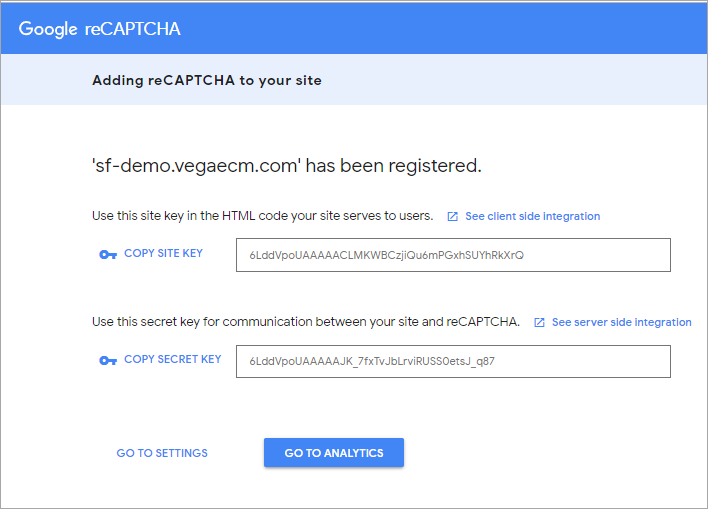
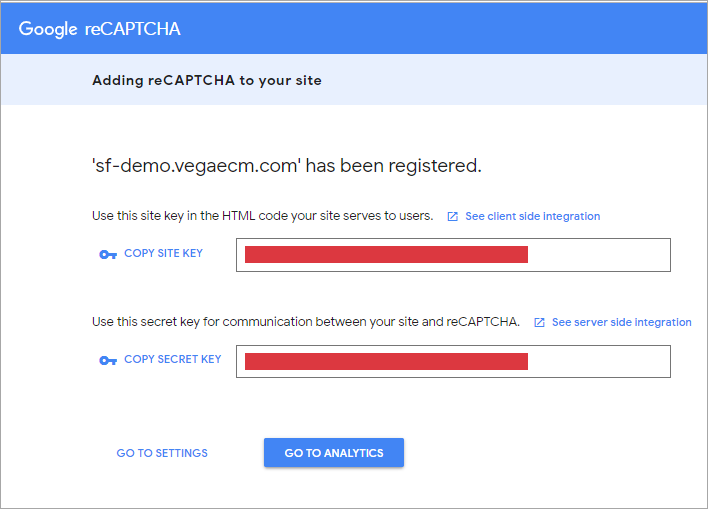
U4SF continued

Changed region(s): [[0.3418, 0.6778, 0.7458, 0.7367], [0.3418, 0.4715, 0.7458, 0.5305]]

diff --git a/unity-for-salesforce/unity-for-salesforce.md b/unity-for-salesforce/unity-for-salesforce.md
@@ -148,7 +148,20 @@ After certificate for a given Unity site is obtained it should be installed on a
 	
 - Enter the following fields and click `Save`: 
 
-	*Table*
+	|                  Field | Value                                     | Notes          |
+	|-----------------------:|:------------------------------------------|:---------------|
+	| Name                   | UnityOAuth2Provider                       |                |
+	| URL Suffix             | UnityOAuth2Provider                       |                |
+	| authorize-endpoint-url | callout:vu_nc/public/api/oauth/authorize  |see note below  |
+	| callback_url           | /services/authcallback/UnityOAuth2Provider|                |
+	| consumer_key           | unity_client                              |                |
+	| consumer_secret        | unity_secret                              |                |
+	| token_endpoint_url     | callout:vu_nc/public/api/oauth/token      |see note below  |
+	| user_info_endpoint_url | callout:vu_nc/public/api/userinfo         |see note below  |
+	| Registration Handler   | Select UnityOAuth2RegHandler              |                |
+	| Execute As             | Select current logged in admin user       |                | 
+
+	**Note**: `vu_nc` should match with Named Credentials. 
 	
 	![u4sf](.\images\image18.png) 
 	
@@ -158,7 +171,10 @@ After certificate for a given Unity site is obtained it should be installed on a
 	
 - Enter the following fields and click `Save`: 
 
-	*Table* 
+	|                  Field | Value                                     | Example                          |
+	|-----------------------:|:------------------------------------------|:---------------------------------|
+	| Trusted Site Name      | any unique name                           | Unity                            |
+	| URL Suffix             |`https://<Unity server>:<Unity port>`      | https://sf-demo.vegaecm.com:9443 |
 	
 	![u4sf](.\images\image20.png) 
 	
@@ -168,13 +184,26 @@ After certificate for a given Unity site is obtained it should be installed on a
 	
 - Enter the following fields and click `Save`: 
 
-	*Table* 
+	|                     Field | Value                                  | Example                          |
+	|--------------------------:|:---------------------------------------|:---------------------------------|
+	| Remote Site Name          | any unique name                        | Unity                            |
+	| Remote URL Site           |`https://<Unity server>:<Unity port>`   | https://sf-demo.vegaecm.com:9443 |
+	| Disable Protocol Security | checked                                |                                  |	
 	
 	![u4sf](.\images\image22.png) 
 	
 - Go to `Security > Named Credentials` and edit `vu_nc` if it exists or create a new Named Credential with the following information and click `Save`: 
 
-	*Table* 
+	|                             Field | Value                                                     | Example                             |
+	|----------------------------------:|:----------------------------------------------------------|:------------------------------------|
+	| Label                             | vu_nc/public/api/oauth/authorize                          |                                     |
+	| Name                              | vu_nc/public/api/oauth/authorize                          |                                     |
+	| URL                               | `https://<Unity server>:<Unity port>/<Unity_context_root>`| https://sf-demo.vegaecm.com:9443/vu |
+	| Identity Type                     | Per User                                                  |                                     |    
+	| Authentication Protocol           | OAuth 2.0                                                 |                                     |
+	| Authentication Provider           | UnityOAuth2Provider                                       |                                     |
+	| Scope                             | api                                                       |                                     |
+	| Start Authentication Flow on Save | checked                                                   |                                     |
 
 	![u4sf](.\images\image23.png)  
 	
@@ -186,27 +215,104 @@ After certificate for a given Unity site is obtained it should be installed on a
 	
 ### Configure Authentication between Salesforce and Unity 
 
+- Go to `Settings` under User profile: 
 
+	![u4sf](.\images\image25.png) 
 	
-![u4sf](.\images\image25.png) 
-![u4sf](.\images\image26.png) 
-![u4sf](.\images\image27.png) 
-![u4sf](.\images\image28.png) 
-![u4sf](.\images\image29.png) 
-![u4sf](.\images\image30.png) 
-![u4sf](.\images\image31.png) 
-![u4sf](.\images\image32.png) 
-![u4sf](.\images\image33.png)  
-![u4sf](.\images\image34.png) 
-![u4sf](.\images\image35.png) 
-![u4sf](.\images\image36.png) 
-![u4sf](.\images\image37.png) 
-![u4sf](.\images\image38.png) 
-![u4sf](.\images\image39.png) 
-![u4sf](.\images\image40.png) 
-![u4sf](.\images\image41.png) 
-![u4sf](.\images\image42.png) 
-![u4sf](.\images\image43.png) 
+- Go to `Authentication Settings for External Systems`. Edit `vu_nc` if it exists otherwise create New setting with the below information and click `Save`: 
+	
+	|                             Field | Value                         | 
+	|----------------------------------:|:------------------------------|
+	| External System Definition        | Named Credential              |
+	| Named Credential                  | vu_nc                         |
+	| User                              | Select current logged in user |
+	| Authentication Protocol           | OAuth 2.0                     |
+	| Authentication Provider           | UnityOAuth2Provider           |
+	| Start Authentication Flow on Save | checked                       |
+	
+	
+	![u4sf](.\images\image26.png) 
+	
+- Check that correct Unity application login dialog is opened and enter correct login and password
+	
+### Configure Unity tab in Salesforce 
+
+- Login to Salesforce 
+- Click `Setup`:  
+	
+	![u4sf](.\images\image10.png) 
+	
+- Go to `Tabs` and Click `New` on the Lightning Component Tabs: 
+	
+	![u4sf](.\images\image27.png) 
+	
+- Enter the information below to create the new tab and click `Save`: 
+	
+	|               Field | Value                                                                                                             | Example          |
+	|--------------------:|:------------------------------------------------------------------------------------------------------------------|:-----------------|
+	| Lightning Component | c:UnitySearchTemplatesTab (deployed package), Intellective2:UnitySearchTemplatesTab (installed package)           |                  |
+	| Tab Label           | Any unique Tab name that will be displayed in the Salesforce                                                      | Documents Search |
+	| Tab Name            | Should be matched with Tab Id that was configured in the Unity application. This ID can be used only for one Tab. | search_templates |
+	| Tab Style           | Select from the list                                                                                              | Lightning        |
+	
+	![u4sf](.\images\image28.png) 
+
+- Go to App Manager and click `Edit` for `Unity for Salesforce`: 
+
+	![u4sf](.\images\image29.png) 
+	
+- Click `Navigation Items` and select `Documents Search` tab as created above from Available Items and click `Save`: 
+	
+	![u4sf](.\images\image30.png) 
+	
+- Open Unity from the App Launcher: 
+
+	![u4sf](.\images\image24.png) 
+	
+### Configure reCAPTCHA (Optional) 
+
+- Add the following parameter to the SystemProperties section of Unity configuration file: 
+
+	```java
+	<Property ID="captcha.enabled" value="true"/> 
+	```
+
+- Login to [https://www.google.com/recaptcha/admin](https://www.google.com/recaptcha/admin) and register a new domain: 
+
+	![u4sf](.\images\image31.png) 
+	
+- Copy the generated keys and add them to `<Unity installed application>/vu.war/WEB-INF/lib/vu-auth-provider-<unity version>.jar/auth.properties` to the following properties: 
+
+	google.recaptcha.key.site = site key 
+	
+	google.recaptcha.key.secret = secret key 
+	
+	![u4sf](.\images\image32.png) 
+
+- In WebSphere admin console, go to `Security > SSL certificate and key management > Key stores and certificates > NodeDefaultTrustStore > Signer certificates`: 
+	
+	![u4sf](.\images\image33.png) 
+	
+- Click `Retrieve from port` button, and specify Hostname `google.com`, Port `443`, and Alias `google`: 
+	
+	![u4sf](.\images\image34.png) 
+	
+- Click `Retrieve signer information` button: 
+	
+	![u4sf](.\images\image35.png) 
+	
+- Press `Apply` and restart WebSphere 
+
+## Verify Installation of Unity for Salesforce
+	
+	![u4sf](.\images\image36.png) 
+	![u4sf](.\images\image37.png) 
+	![u4sf](.\images\image38.png) 
+	![u4sf](.\images\image39.png) 
+	![u4sf](.\images\image40.png) 
+	![u4sf](.\images\image41.png) 
+	![u4sf](.\images\image42.png) 
+	![u4sf](.\images\image43.png) 
 
 ## Contacts
 
